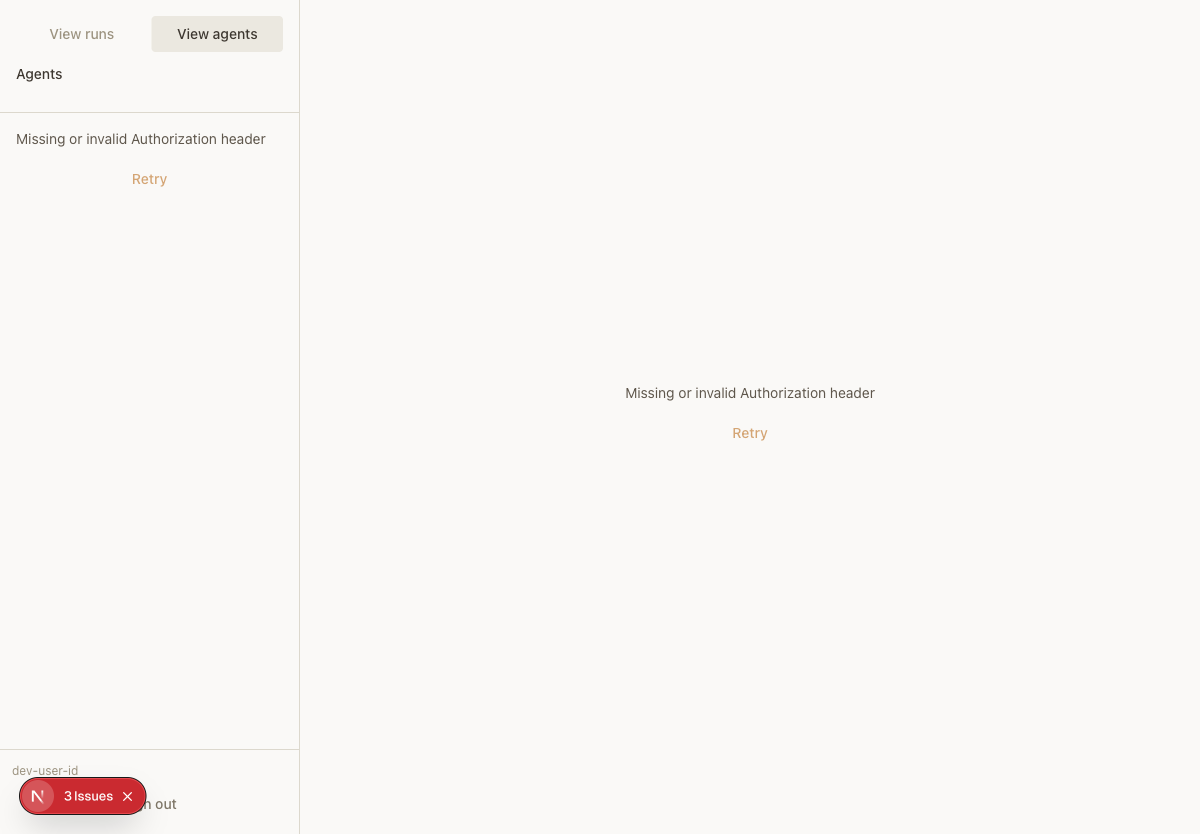
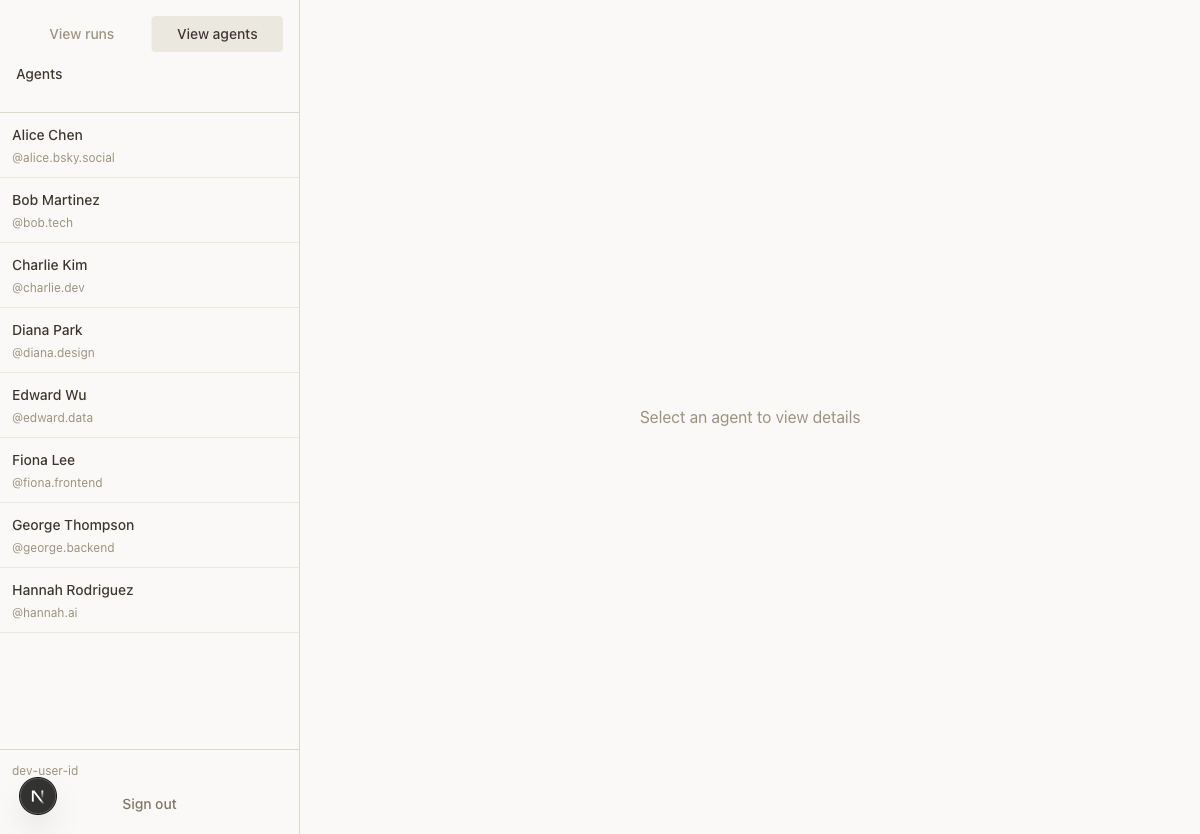
update images + docs

diff --git a/docs/plans/2026-02-23_view_agents_feature_a1b2c3/images/after/README.md b/docs/plans/2026-02-23_view_agents_feature_a1b2c3/images/after/README.md
@@ -1,6 +1,7 @@
 # After Screenshots
 
-Captured after implementing the View Agents feature.
+Captured after implementing the View Agents feature. Run with `DISABLE_AUTH=1` (backend) and `NEXT_PUBLIC_DISABLE_AUTH=true` (frontend) per docs/runbooks/LOCAL_DEV_AUTH.md.
 
-- `view_runs_toggle.png`: View runs | View agents toggle at top-left, with "View runs" active. Sidebar shows Run History and Start New Run.
-- `view_agents_mode.png`: "View agents" active. Sidebar shows Agents heading; main area shows error/retry when API returns 401 (auth required). With valid auth, agent list and AgentDetail would render.
+- `view_runs_toggle.png`: View runs | View agents toggle at top-left, with "View runs" active. Sidebar shows Run History, run list, and Start New Run. Main area shows Start New Simulation form.
+- `view_agents_mode.png`: "View agents" active. Sidebar shows Agents list; main area shows "Select an agent to view details".
+- `view_agents_agent_detail.png`: Agent "Alice Chen" selected. AgentDetail with metadata (Name, Bio, Generated Bio, Followers, Following, Posts) expanded; Feed (0), Liked Posts (0), Comments (0) collapsed.
